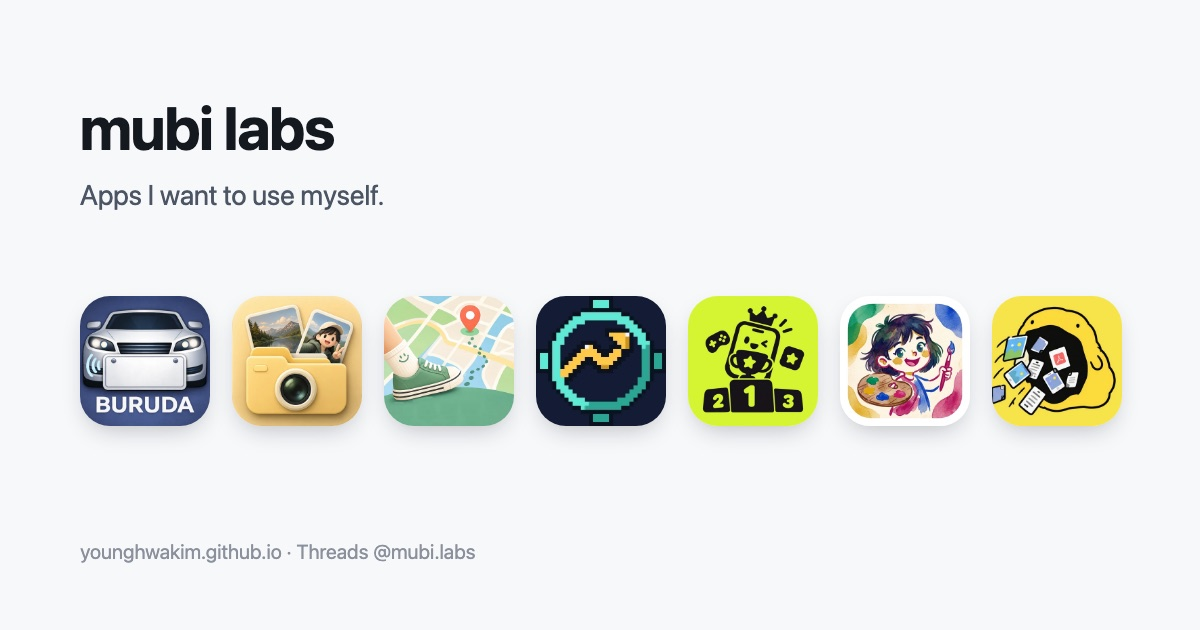
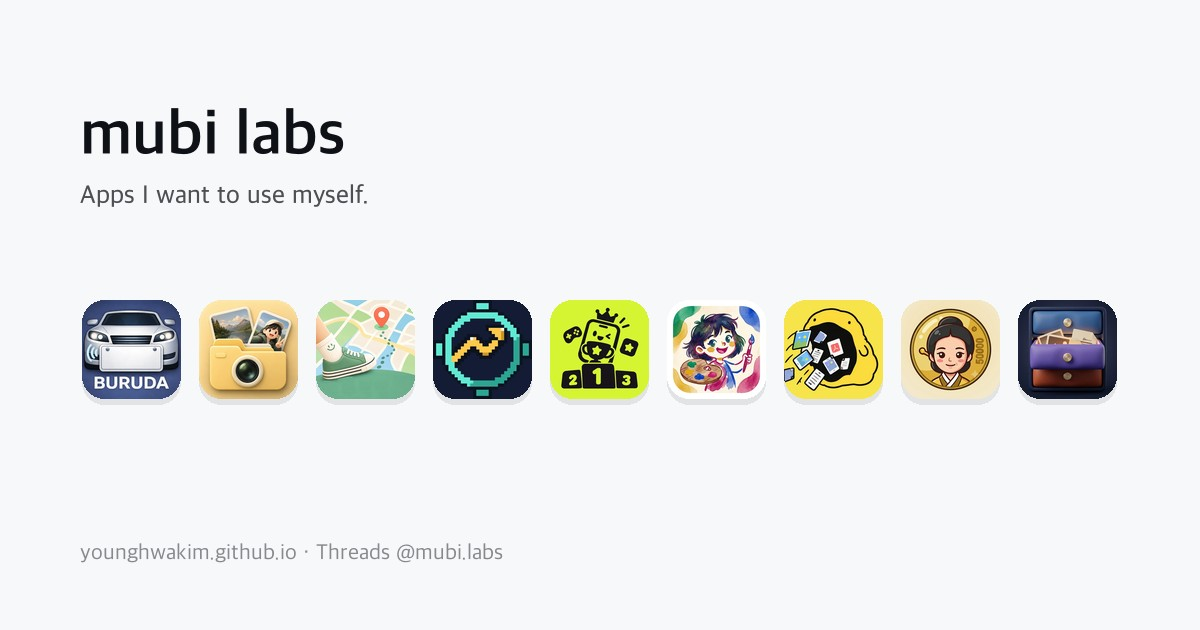
메인: 돈돈 아이콘 누락 수정 · Tuck 출시 등록(2026-10-31, 4개 언어 스크린샷) · OG 9개 앱으로 다시(scripts/og.py)

diff --git a/index.html b/index.html
@@ -327,6 +327,15 @@
             ja:'毎日、世界中が同じ4色を受け取ります。ひとつを紙に、3つで今日を描くと、カレンダーに一枚ずつたまります。', zh:'每天全世界都拿到同樣的四個顏色。一個當紙，三個當畫筆，畫下今天，月曆上就多一張。'},
       accent:'#B0822A', released:'2026.09', sort:'2026-09-10', platforms:['ios'],
       links:[{k:'intro', u:'https://younghwakim.github.io/shared/todaycolor/', main:true}, {t:'App Store', u:'https://apps.apple.com/app/id6809541753'}] },
+    { id:'tuck', status:'live', shot:{ko:'tuck-ko',en:'tuck-en',ja:'tuck-ja',zh:'tuck-zh'},
+      name:{ko:'Tuck',en:'Tuck',ja:'Tuck',zh:'Tuck'}, en:'Private Photo Vault', word:'tuck',
+      pos:{ko:'번호마다 다른 서랍.', en:'A different drawer for every PIN.', ja:'番号ごとに別の引き出し。', zh:'一組密碼，一個抽屜。'},
+      desc:{ko:'1111은 회사 서랍, 2222는 내 서랍. 잠금 화면은 서랍이 몇 개인지도 보여 주지 않아요. 신분증·계약서를 넣으면 얼굴과 번호를 찾아 가려 주고, 전부 폰 안에서만 처리해요. 계정도 서버도 없어요.',
+            en:'Type 1111 for the work drawer, 2222 for your own. The lock screen never shows how many drawers exist. Add an ID or a contract and Tuck finds faces and numbers to cover, all on the phone. No account, no server.',
+            ja:'1111は仕事の引き出し、2222は自分の引き出し。ロック画面は引き出しがいくつあるかさえ見せません。身分証や契約書を入れると顔や番号を見つけて隠し、すべて端末内で処理。アカウントもサーバーもなし。',
+            zh:'輸入 1111 開工作抽屜，2222 開自己的。鎖定畫面連有幾個抽屜都不會透露。放進身分證或合約，Tuck 會找出臉孔和號碼幫你遮住，全部在手機上完成。不需帳號、沒有伺服器。'},
+      accent:'#D9A24B', released:'2026.10', sort:'2026-10-31', platforms:['ios'],
+      links:[{t:'App Store', u:'https://apps.apple.com/app/id6824168879', main:true},{k:'intro', u:'https://younghwakim.github.io/shared/tuck/'}] },
     { id:'dondon', status:'live', shot:{ko:'dondon-ko',en:'dondon-en',ja:'dondon-ja'},
       name:{ko:'돈돈',en:'DonDon',ja:'ドンドン',zh:'DonDon'}, en:'Coin Merge Puzzle', word:{ko:'돈',en:'coin',ja:'お金',zh:'錢'},
       pos:{ko:'같은 돈 둘이 닿으면 한 단계 큰 돈.', en:'Two of the same money merge into the next one.', ja:'同じお金が2つくっつくと、ひとつ上のお金に。', zh:'兩個一樣的錢碰在一起，就變成大一級的錢。'},

diff --git a/scripts/og.py b/scripts/og.py
@@ -1,0 +1,47 @@
+#!/usr/bin/env python3
+"""
+OG 미리보기 그림(1200×630) 4개 언어 — 앱 아이콘을 출시순으로 한 줄. 앱이 늘면 다시 돌린다: python3 scripts/og.py
+아이콘은 assets/apps/<id>.webp(384px). 순서는 index.html APPS 의 sort 순이 아니라 아래 ORDER(한 줄에 9개까지, 넘으면 두 줄).
+글꼴은 macOS 의 Apple SD Gothic Neo(한·영·일·중 전부 들어 있다).
+"""
+import os
+from PIL import Image, ImageDraw, ImageFont
+
+ROOT = os.path.join(os.path.dirname(__file__), '..')
+ORDER = ['buruda', 'wemera', 'tobeokmap', 'timeteller', 'morado-ildeung', 'todaycolor', 'nom', 'dondon', 'tuck']
+TEXT = {
+    'ko': ('mubi labs', '나부터 쓰고 싶은 앱을 만들고 있습니다.'),
+    'en': ('mubi labs', 'Apps I want to use myself.'),
+    'ja': ('mubi labs', 'まず自分が使いたいアプリを作っています。'),
+    'zh': ('mubi labs', '先做我自己想用的 App。'),
+}
+FONT = '/System/Library/Fonts/AppleSDGothicNeo.ttc'
+BG, INK, SUB, FOOT = (247, 248, 250), (14, 17, 22), (76, 80, 83), (134, 138, 141)
+W, H, M = 1200, 630, 80
+
+def rounded(im, r):
+    mask = Image.new('L', im.size, 0)
+    ImageDraw.Draw(mask).rounded_rectangle((0, 0, im.size[0] - 1, im.size[1] - 1), r, fill=255)
+    out = im.convert('RGBA'); out.putalpha(mask); return out
+
+def make(lang):
+    title, lede = TEXT[lang]
+    im = Image.new('RGB', (W, H), BG); d = ImageDraw.Draw(im)
+    d.text((M, 100), title, font=ImageFont.truetype(FONT, 62, index=6), fill=INK)
+    d.text((M, 180), lede, font=ImageFont.truetype(FONT, 26, index=2), fill=SUB)
+    n = len(ORDER); per_row = min(n, 9); rows = (n + per_row - 1) // per_row
+    gap = 18; size = min(130, (W - 2 * M - gap * (per_row - 1)) // per_row)
+    total = per_row * size + gap * (per_row - 1); x0 = (W - total) // 2
+    y0 = 300 if rows == 1 else 250
+    for i, app in enumerate(ORDER):
+        r, c = divmod(i, per_row)
+        ic = Image.open(os.path.join(ROOT, 'assets/apps', app + '.webp')).convert('RGB').resize((size, size), Image.LANCZOS)
+        ic = rounded(ic, int(size * 0.225))
+        x = x0 + c * (size + gap); y = y0 + r * (size + gap)
+        sh = Image.new('RGBA', (size + 8, size + 8), (0, 0, 0, 0)); ImageDraw.Draw(sh).rounded_rectangle((4, 6, size + 3, size + 7), int(size * 0.225), fill=(0, 0, 0, 22))
+        im.paste(sh, (x - 4, y - 2), sh); im.paste(ic, (x, y), ic)
+    d.text((M, 540), 'younghwakim.github.io · Threads @mubi.labs', font=ImageFont.truetype(FONT, 22, index=0), fill=FOOT)
+    out = os.path.join(ROOT, 'assets', 'og.jpg' if lang == 'ko' else f'og-{lang}.jpg')
+    im.save(out, 'JPEG', quality=90); print(out)
+
+for lang in TEXT: make(lang)
